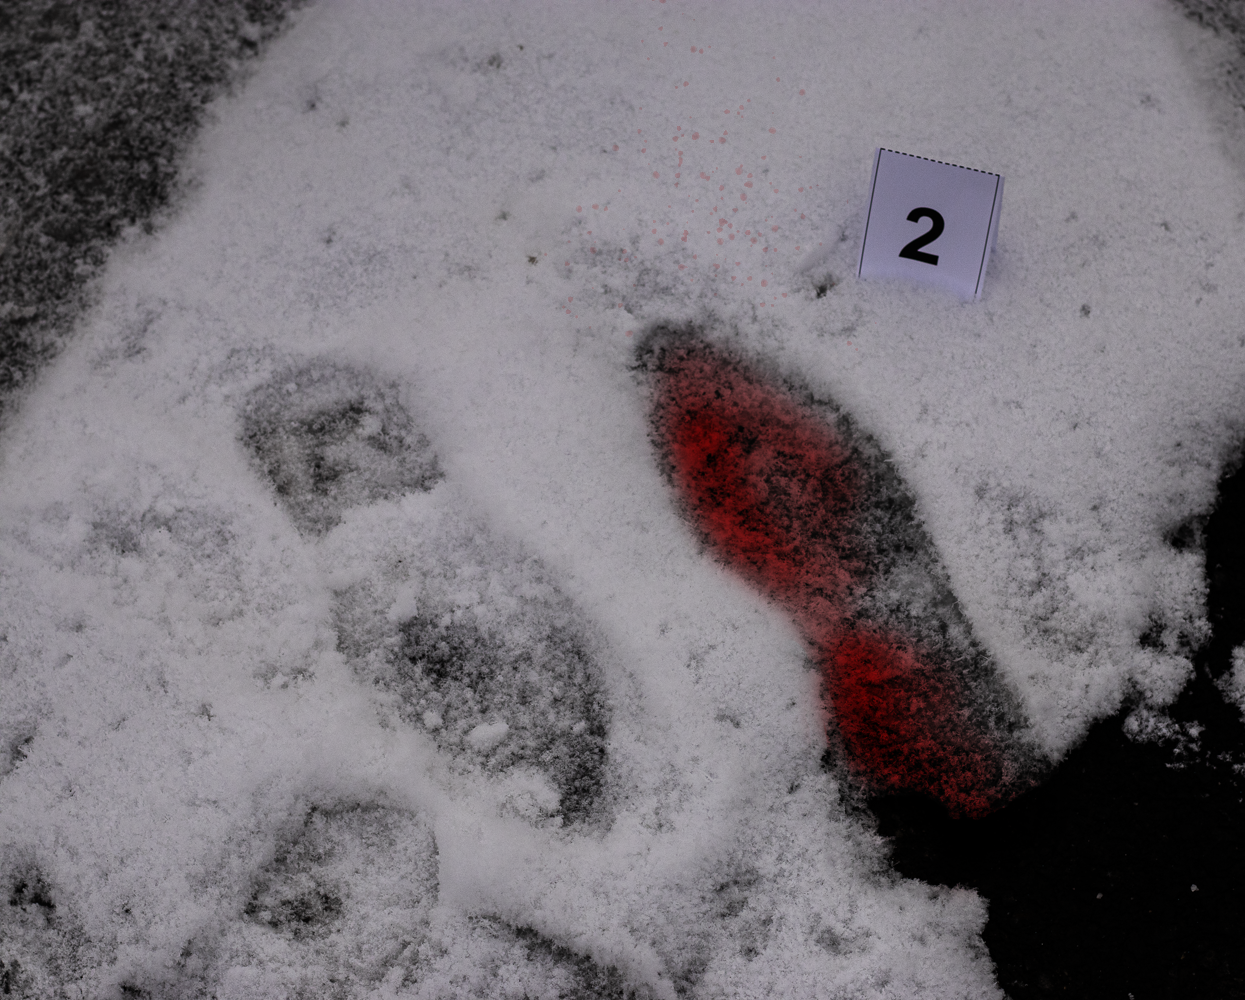
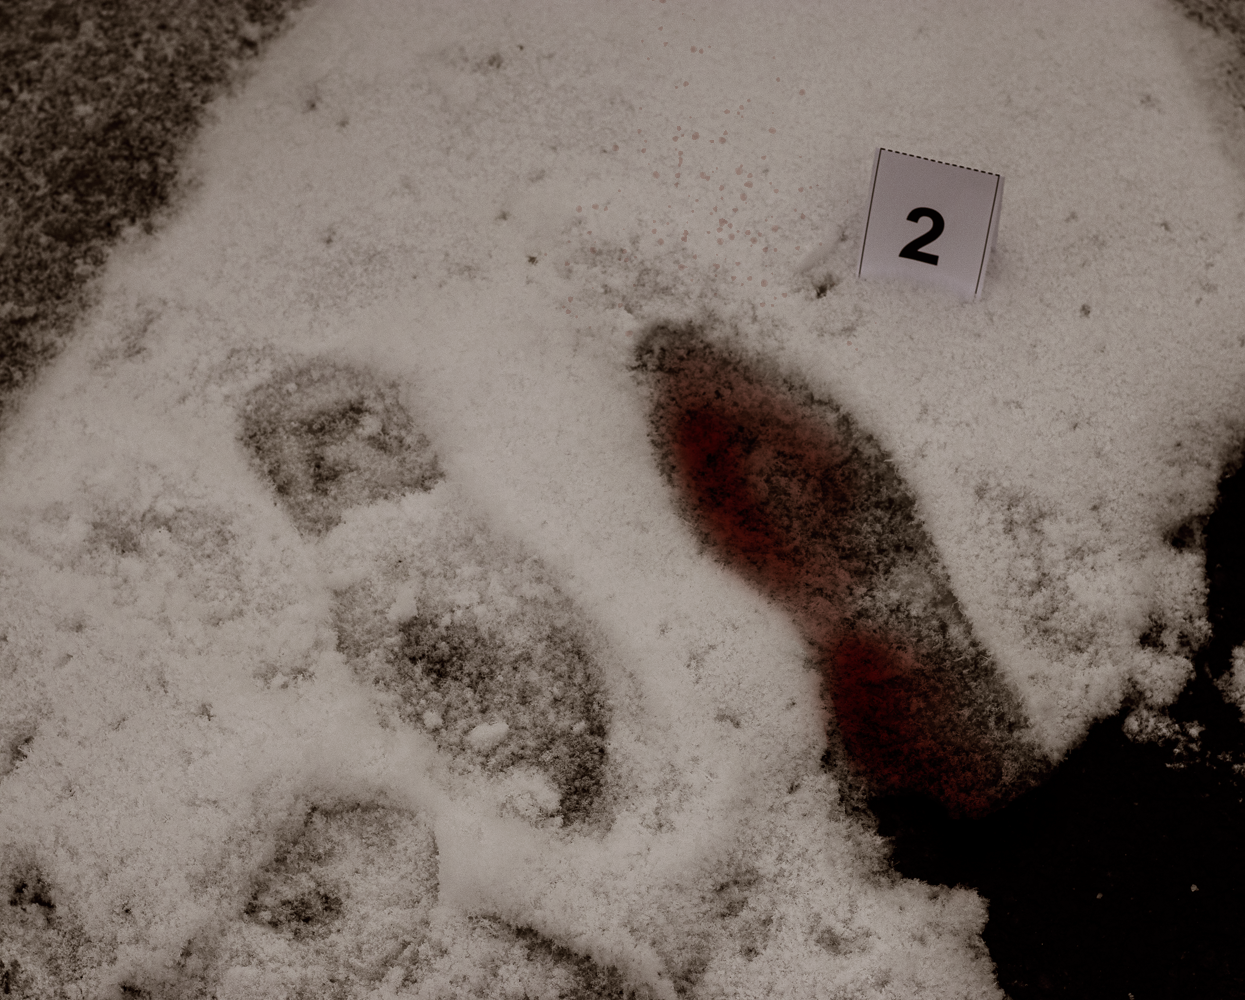
feat: reflection

diff --git a/content/photography/february/index.md b/content/photography/february/index.md
@@ -27,4 +27,8 @@ resources:
     title: "Fairy Tale 0"
     params:
       date: 2025-02-11
+  - src: reflection.png
+    title: "Reflection"
+    params:
+      date: 2025-02-11
 ---
